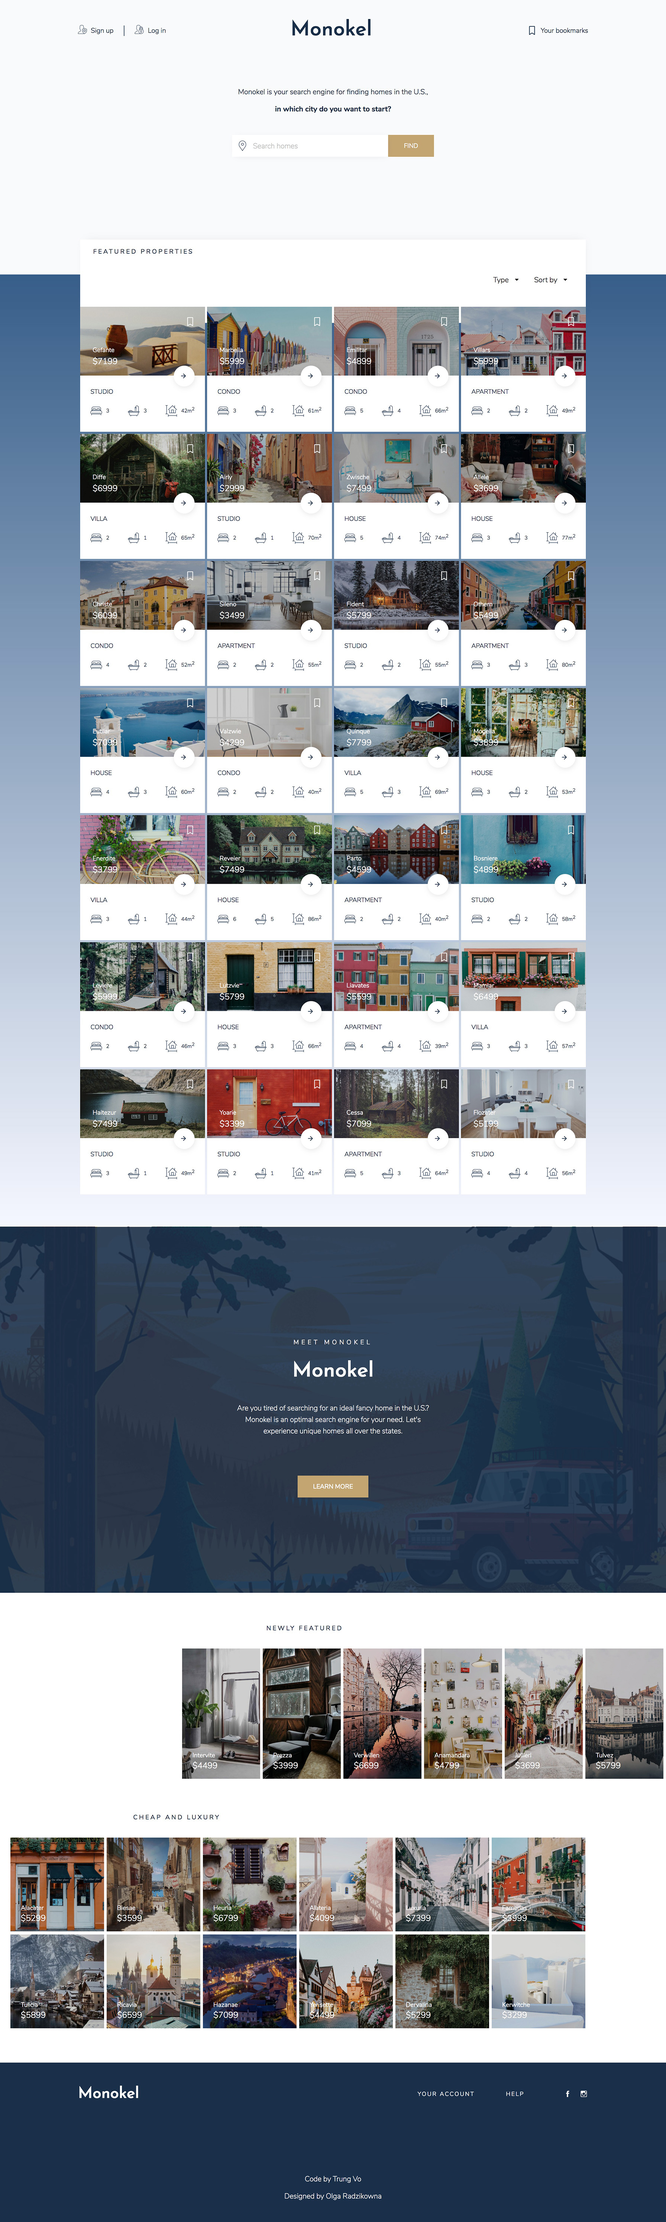
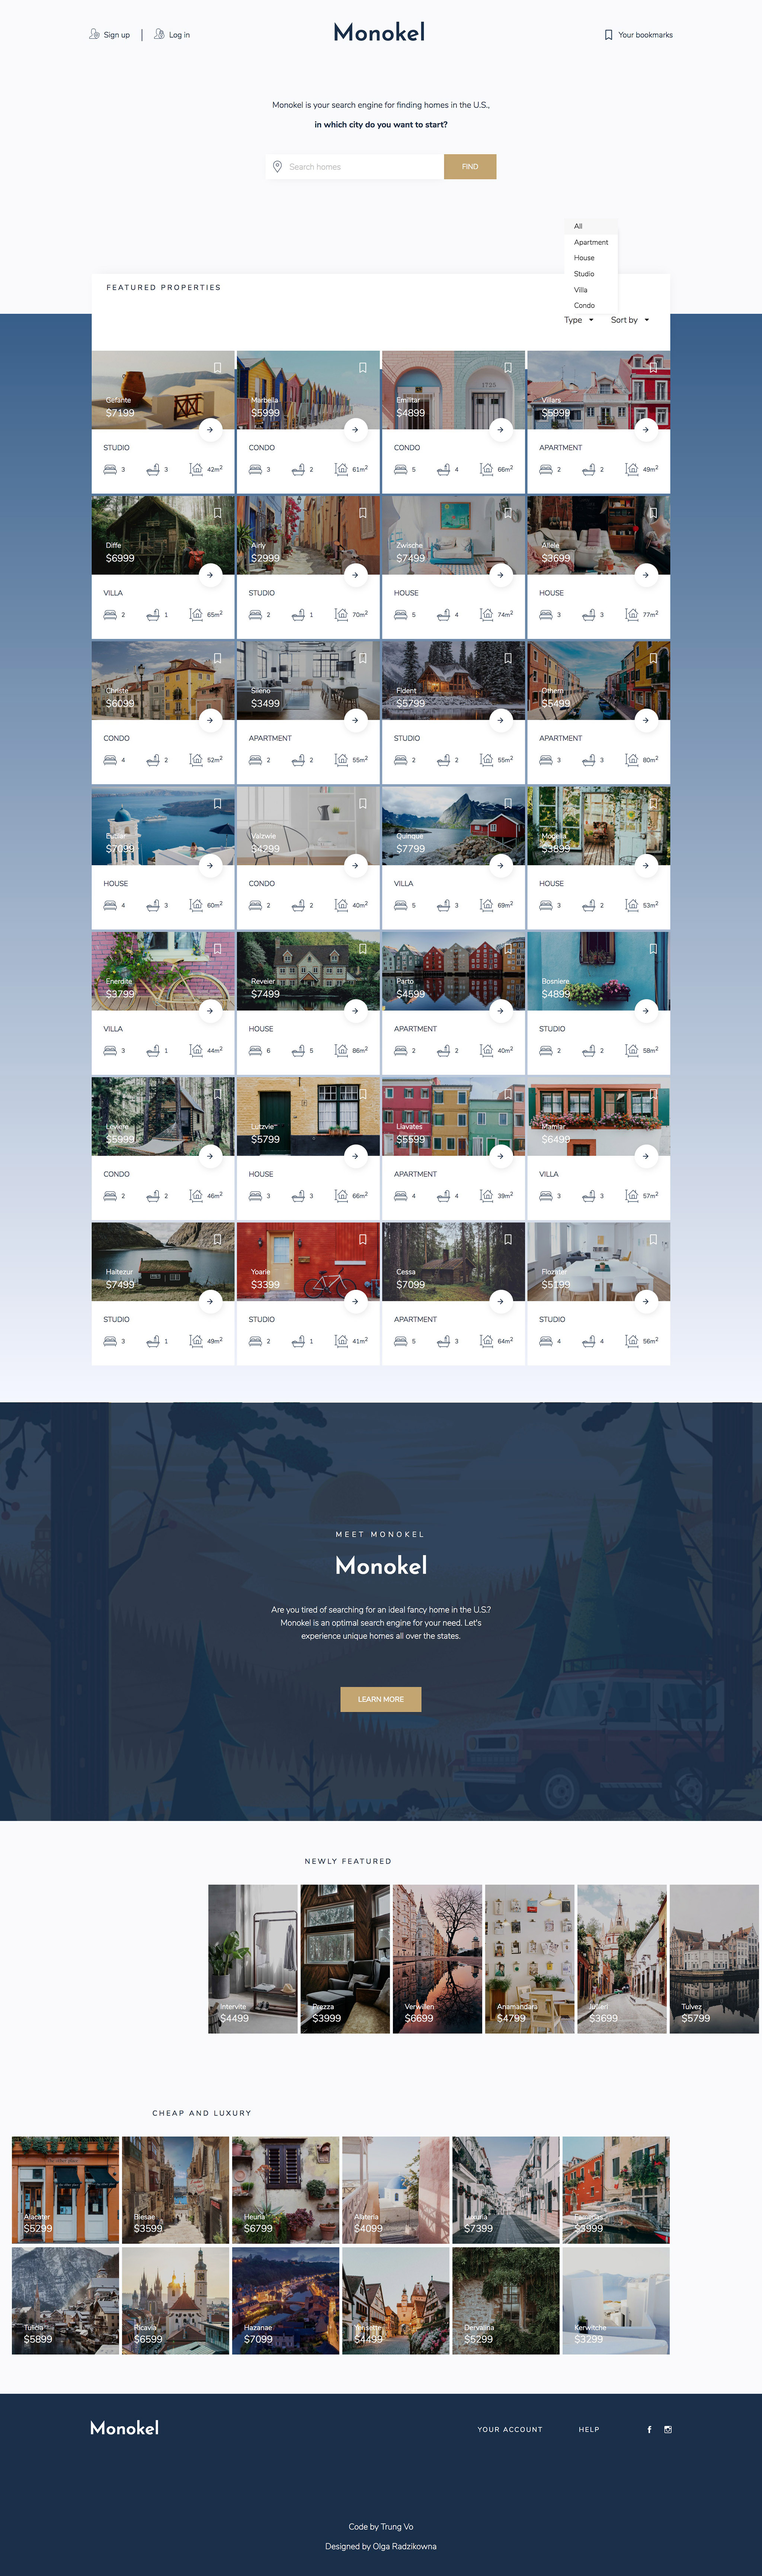
style(bg): fix background colors for bottom part

diff --git a/src/styles/components/_newly-featured.scss b/src/styles/components/_newly-featured.scss
@@ -1,7 +1,8 @@
 .newly-featured {
   min-height: 30rem;
-  margin-top: $xl-size;
-  margin-bottom: $xl-size;
+  padding: $xl-size 0;
+  // margin-bottom: $xl-size;
+  background-color: $color-grey-light-1;
 
   .newly-featured-title {
     margin-left: 40vw;

diff --git a/src/styles/components/_cheap-luxury.scss b/src/styles/components/_cheap-luxury.scss
@@ -1,6 +1,7 @@
 .cheap-luxury {
   min-height: 30rem;
-  margin: $xl-size 0;
+  padding: $xl-size 0;
+  background-color: $color-grey-light-1;
 
   &__title {
     margin-left: 20vw;

diff --git a/README.md b/README.md
@@ -1,9 +1,9 @@
 **Design credit of the project: [Olga Radzikowna](https://dribbble.com/shots/4177962-Find-fancy-home-abroad/attachments/954897)**
 ----
 ## Monokel
-> Monokel project is a real estate single page application. Users can be able to filter the results based on type (apartment, house, studio, villa, condo) and sorting (price, area, bedrooms, bathrooms).
+> Monokel project is a real estate single page application. Users can be able to filter the results based on type (apartment, house, studio, villa, condo) and sorting (price, area, bedrooms, bathrooms). There is no backend API for this project, I created all random data in utils folder.
 
-This project is built using ReactJS for user interfaces and SASS for styling. 
+This project is built using ReactJS for user interfaces and SASS for styling. I was really interested in the design since I could implement React to build many component blocks and manage states in declarative way from user input (city search & filter). Some features are not available (signup, login, bookmarks).
 
 ### Important
 The search bar is limited to particular keywords of cities, which can be found in 
